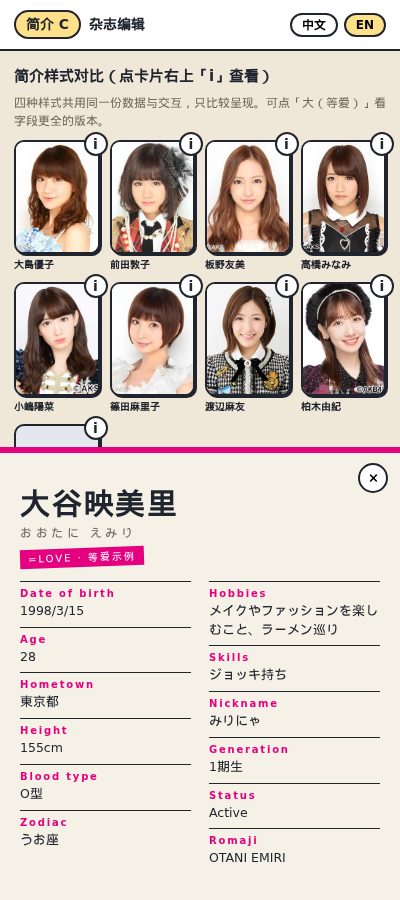
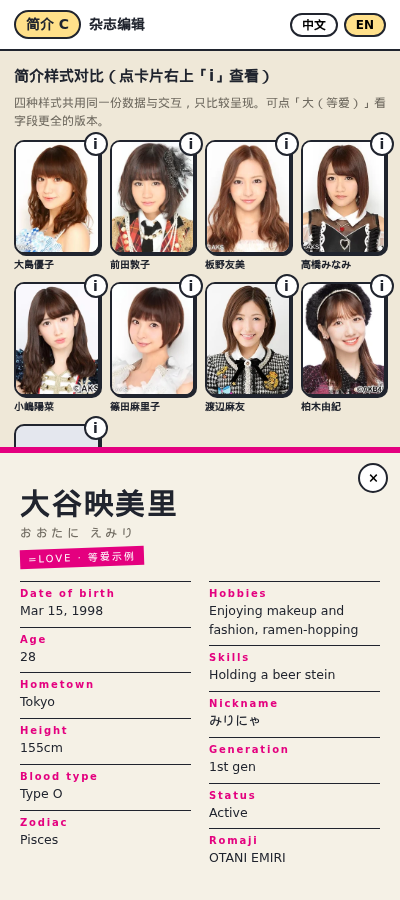
简介选型 C（杂志编辑）：值本地化——星座/血型/出身地/期生/日期映射，趣味/特技对照表，未知回退原文

diff --git a/prototype/ui-v3-profile/profile.js b/prototype/ui-v3-profile/profile.js
@@ -2,6 +2,38 @@
 (function () {
   "use strict";
 
+  const ZODIAC = {
+    おひつじ座: ["白羊座", "Aries"],
+    おうし座: ["金牛座", "Taurus"],
+    ふたご座: ["双子座", "Gemini"],
+    かに座: ["巨蟹座", "Cancer"],
+    しし座: ["狮子座", "Leo"],
+    おとめ座: ["处女座", "Virgo"],
+    てんびん座: ["天秤座", "Libra"],
+    さそり座: ["天蝎座", "Scorpio"],
+    いて座: ["射手座", "Sagittarius"],
+    やぎ座: ["摩羯座", "Capricorn"],
+    みずがめ座: ["水瓶座", "Aquarius"],
+    うお座: ["双鱼座", "Pisces"],
+  };
+  const PREF = {
+    東京都: ["东京都", "Tokyo"],
+    栃木県: ["栃木县", "Tochigi"],
+    千葉県: ["千叶县", "Chiba"],
+    神奈川県: ["神奈川县", "Kanagawa"],
+    埼玉県: ["埼玉县", "Saitama"],
+    福岡県: ["福冈县", "Fukuoka"],
+    鹿児島県: ["鹿儿岛县", "Kagoshima"],
+  };
+  const TEXT = {
+    "メイクやファッションを楽しむこと、ラーメン巡り": [
+      "享受化妆与时尚、巡游拉面店",
+      "Enjoying makeup and fashion, ramen-hopping",
+    ],
+    ジョッキ持ち: ["举扎啤杯", "Holding a beer stein"],
+  };
+  const MONTHS = ["Jan", "Feb", "Mar", "Apr", "May", "Jun", "Jul", "Aug", "Sep", "Oct", "Nov", "Dec"];
+
   const L = {
     zh: {
       birth: "生年月日",
@@ -84,26 +116,51 @@
     return a;
   }
 
+  function i18n(v) {
+    const pair = PREF[v] || ZODIAC[v] || TEXT[v];
+    return pair ? pair[lang === "zh" ? 0 : 1] : v;
+  }
+
+  function dateOf(v) {
+    if (!v || lang === "zh") return v;
+    const [y, m, d] = v.split("/").map(Number);
+    return MONTHS[m - 1] + " " + d + ", " + y;
+  }
+
+  function genOf(v) {
+    if (!v || lang === "zh") return v;
+    const m = v.match(/^(\d+)(?:\.(\d))?期生$/);
+    if (!m) return v;
+    if (m[2]) return m[1] + "." + m[2] + " gen";
+    const n = m[1];
+    const suffix = n === "1" ? "st" : n === "2" ? "nd" : n === "3" ? "rd" : "th";
+    return n + suffix + " gen";
+  }
+
   function rowsOf(m) {
     const t = L[lang];
     const r = [];
     const push = (k, v) => v && r.push([k, v]);
-    push(t.birth, m.birth);
+    push(t.birth, dateOf(m.birth));
     push(t.age, m.birth ? String(ageOn(m.birth)) : "");
-    push(t.from, m.from);
+    push(t.from, m.from ? i18n(m.from) : "");
     push(t.height, m.height);
-    push(t.blood, m.blood);
-    push(t.sign, m.sign);
-    push(t.hobby, m.hobby);
-    push(t.skill, m.skill);
+    push(
+      t.blood,
+      m.blood && lang === "en" ? m.blood.replace(/^([ABO]+)型$/, "Type $1") : m.blood
+    );
+    push(t.sign, m.sign ? i18n(m.sign) : "");
+    push(t.hobby, m.hobby ? i18n(m.hobby) : "");
+    push(t.skill, m.skill ? i18n(m.skill) : "");
     push(t.nick, m.nick);
     push(t.group, m.grp);
-    push(t.gen, m.gen);
+    push(t.gen, genOf(m.gen));
     if (m.grad) push(t.status, t.grad(m.grad.slice(0, 4)));
     else if (m.current) push(t.status, t.current);
     push(t.romaji, m.romaji);
     return r;
   }
+
 
   function fillSheet(m, photoId) {
     const sheet = document.getElementById("sheet");
